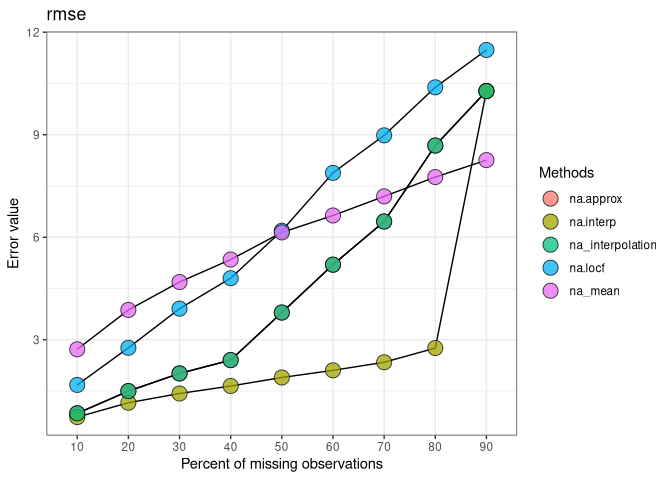
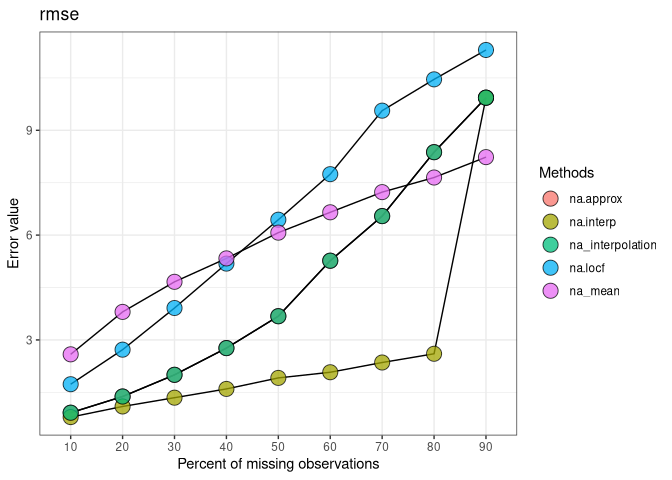
Updated Readme

diff --git a/README.md b/README.md
@@ -18,7 +18,7 @@ experimental](https://img.shields.io/badge/lifecycle-experimental-orange.svg)](h
 devtools::install_github("Mayur1009/imputeTestbenchG")
 ```
 
-\####Load the package:
+#### Load the package:
 
 ``` r
 library(imputeTestbench)
@@ -36,24 +36,24 @@ a
 #> [1] 10 20 30 40 50 60 70 80 90
 #> 
 #> $na.approx
-#> [1]  0.8484444  1.4986629  2.0158453  2.4057743  3.7973749  5.1975195  6.4614848
-#> [8]  8.6839006 10.2780148
+#> [1] 0.9162661 1.3805052 2.0013405 2.7664492 3.6789635 5.2671039 6.5445688
+#> [8] 8.3739624 9.9329219
 #> 
 #> $na.interp
-#> [1]  0.7374866  1.1582693  1.4285136  1.6482360  1.8969032  2.1065006  2.3426693
-#> [8]  2.7581197 10.2780148
+#> [1] 0.7910136 1.0955786 1.3470162 1.5978807 1.9130360 2.0751923 2.3537695
+#> [8] 2.6036849 9.9329219
 #> 
 #> $na_interpolation
-#> [1]  0.8484444  1.4986629  2.0158453  2.4057743  3.7973749  5.1975195  6.4614848
-#> [8]  8.6839006 10.2780148
+#> [1] 0.9162661 1.3805052 2.0013405 2.7664492 3.6789635 5.2671039 6.5445688
+#> [8] 8.3739624 9.9329219
 #> 
 #> $na.locf
-#> [1]  1.679254  2.764380  3.910782  4.802727  6.189560  7.884283  8.982295
-#> [8] 10.387566 11.480185
+#> [1]  1.732403  2.721411  3.913568  5.184689  6.440889  7.744291  9.561945
+#> [8] 10.458099 11.299014
 #> 
 #> $na_mean
-#> [1] 2.721977 3.872511 4.690561 5.348078 6.141582 6.637008 7.196776 7.760968
-#> [9] 8.257784
+#> [1] 2.587900 3.802117 4.663188 5.333619 6.070594 6.653130 7.230423 7.648520
+#> [9] 8.232330
 plot_errors(a, plotType = 'line')
 ```
 
